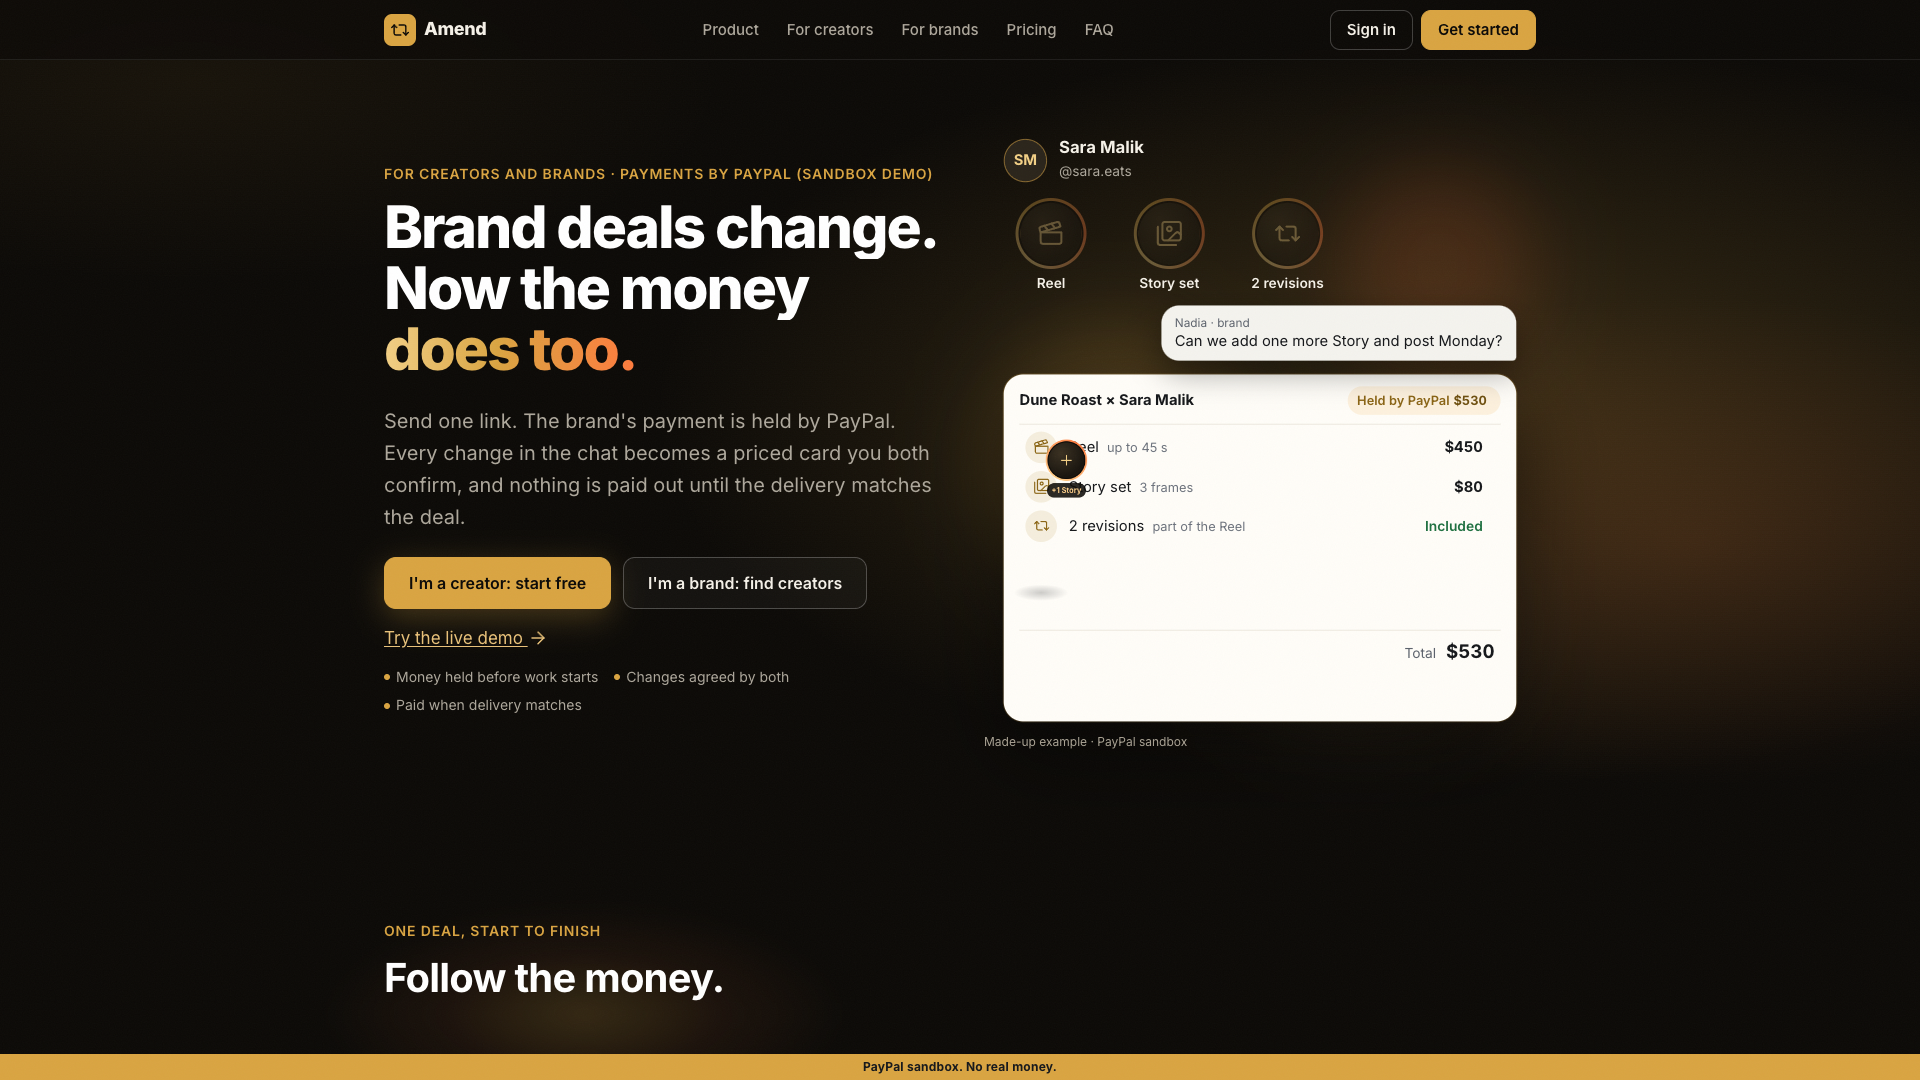
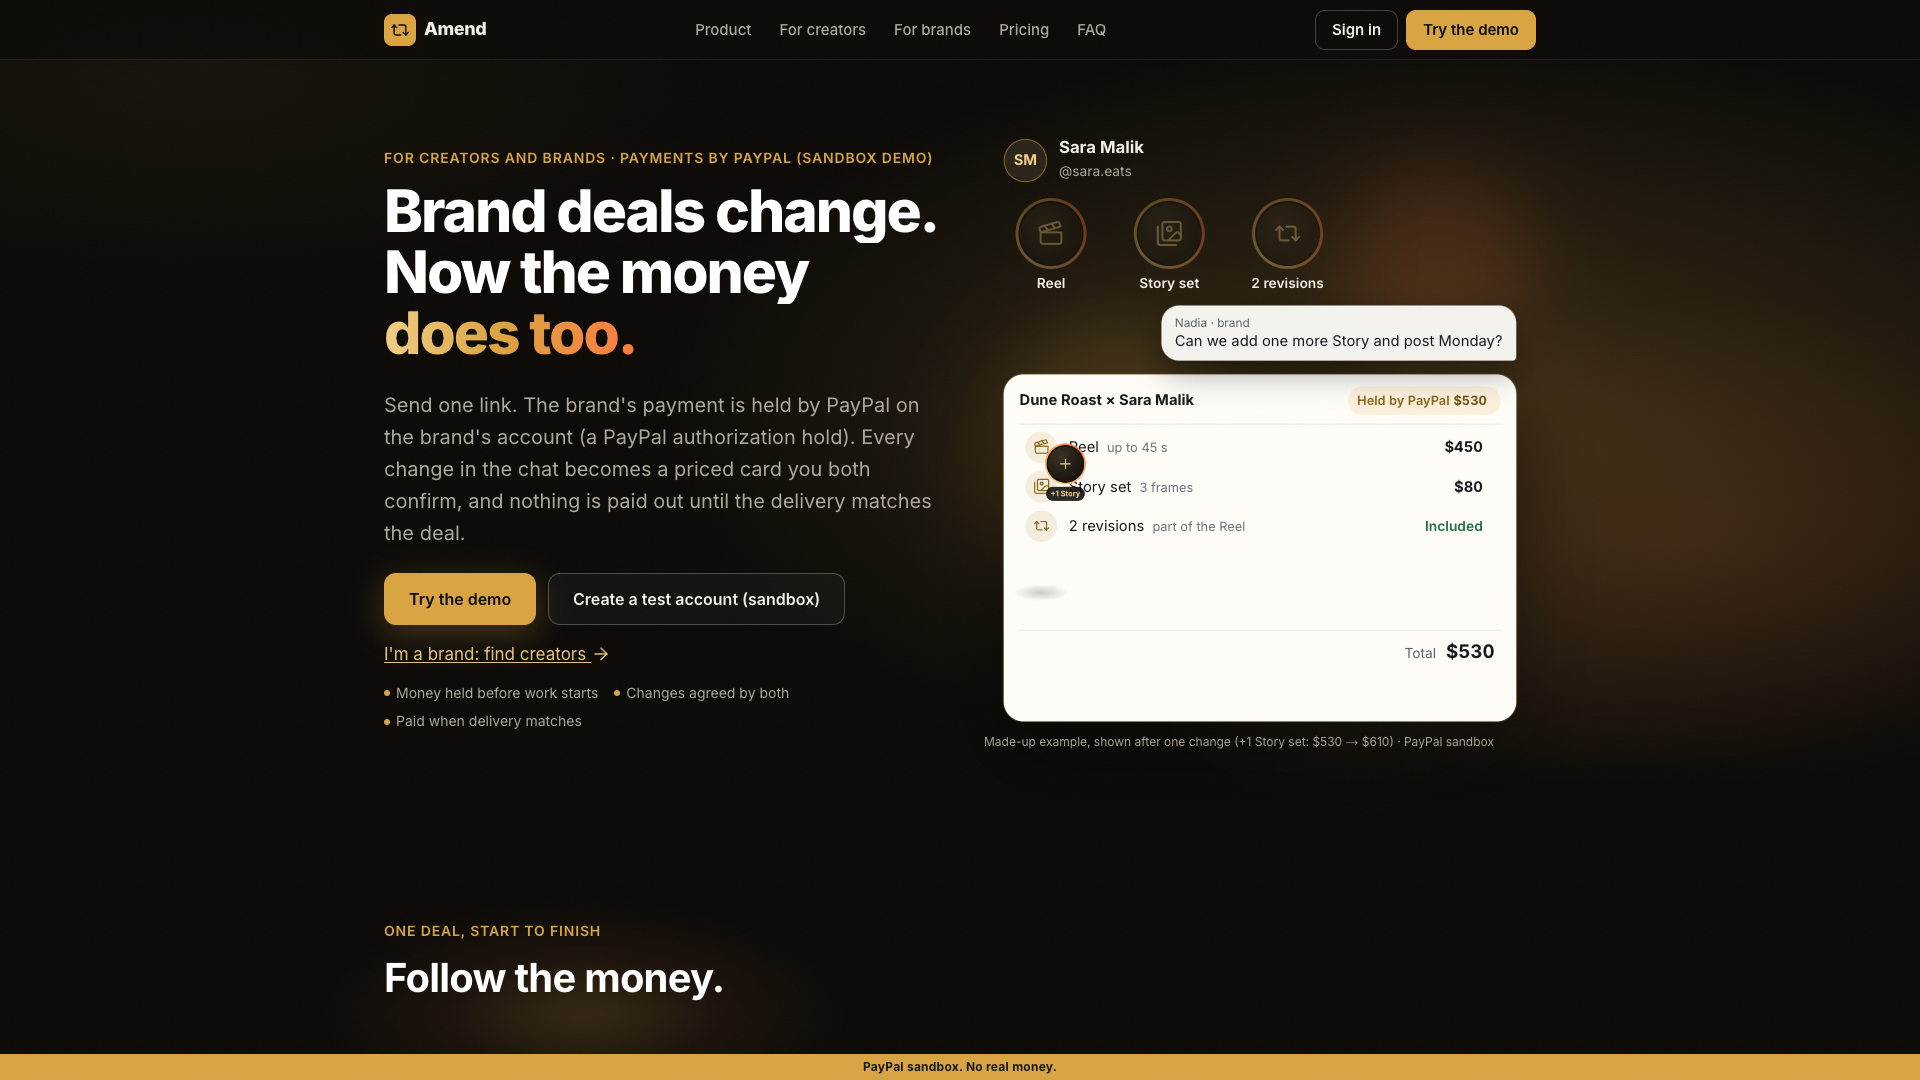
Live-page copy: honest post-check line, Try the demo / Create a test account (sandbox), hero note, peg line

diff --git a/web/index.html b/web/index.html
@@ -16,7 +16,7 @@
     <a href="/#how">Product</a><a href="/#creators">For creators</a><a href="/#brands">For brands</a><a href="/pricing">Pricing</a><a href="/faq">FAQ</a>
   </nav>
   <span class="auth-slot mk-only-desktop"></span>
-  <a class="btn small primary mk-only-mobile" href="/signup">Get started</a>
+  <a class="btn small primary mk-only-mobile" href="/try">Try the demo</a>
   <button class="iconbtn mk-only-mobile" id="mk-menu" aria-label="Menu"><i data-lucide="menu" aria-hidden="true"></i></button>
 </header>
 
@@ -30,10 +30,10 @@
         <h1 class="cine-h" aria-label="Brand deals change. Now the money does too."><span class="ln" aria-hidden="true"><span style="--i:0">Brand deals change.</span></span><span class="ln" aria-hidden="true"><span style="--i:1">Now the money</span></span><span class="ln" aria-hidden="true"><span class="gold" style="--i:2">does too.</span></span></h1>
         <p class="lead">Send one link. The brand's payment is held by PayPal on the brand's account (a PayPal authorization hold). Every change in the chat becomes a priced card you both confirm, and nothing is paid out until the delivery matches the deal.</p>
         <div class="cta-row">
-          <a class="btn primary lg magnetic" href="/signup?kind=creator">I'm a creator: start free</a>
-          <a class="btn lg magnetic" href="/creators">I'm a brand: find creators</a>
+          <a class="btn primary lg magnetic" href="/try">Try the demo</a>
+          <a class="btn lg magnetic" href="/signup?kind=creator">Create a test account (sandbox)</a>
         </div>
-        <p class="try-link"><a href="/try">Try the live demo <i data-lucide="arrow-right" aria-hidden="true"></i></a></p>
+        <p class="try-link"><a href="/creators">I'm a brand: find creators <i data-lucide="arrow-right" aria-hidden="true"></i></a></p>
         <ul class="proof-row" aria-label="How Amend protects both sides"><li>Money held before work starts</li><li>Changes agreed by both</li><li>Paid when delivery matches</li></ul>
       </div>
       <div class="scene" id="demo" role="img" aria-label="Animated example: Sara's prices fly into a deal card, $530 is held by PayPal, the brand asks for one more Story and post Monday, both confirm, and the held money becomes $610">
@@ -61,7 +61,7 @@
             </div>
           </div>
         </div></div>
-        <p class="sc-note">Made-up example · PayPal sandbox</p>
+        <p class="sc-note">Made-up example, shown after one change (+1 Story set: $530 → $610) · PayPal sandbox</p>
       </div>
     </div>
   </section>
@@ -79,7 +79,7 @@
         <li data-stage="2"><div class="n"><i data-lucide="git-branch" aria-hidden="true"></i> 3 · Change confirmed</div><h3>One more Story? +$80.</h3>
           <p>The chat becomes a priced change card. Both confirm, and PayPal now holds $610.</p></li>
         <li data-stage="3"><div class="n"><i data-lucide="scan-eye" aria-hidden="true"></i> 4 · Delivery matches</div><h3>Checked against the deal.</h3>
-          <p><!--PC1-->Amend checks the post details against the deal.<!--/PC1--> No match, no release.</p></li>
+          <p>Amend checks the post against the latest confirmed deal, and reads it from Instagram when the creator's account is connected. No match, no release.</p></li>
         <li data-stage="4"><div class="n"><i data-lucide="send" aria-hidden="true"></i> 5 · Paid out</div><h3>Collected and paid out.</h3>
           <p>The money reaches Sara, and every dollar in the ledger shows the words behind it.</p></li>
       </ol>
@@ -130,7 +130,7 @@
         <div><div class="shot"><img src="/static/img/how-change.png" alt="A change card priced from the creator's list" loading="lazy"></div>
           <h3>3 · Changes become cards</h3><p class="muted">"Can we add a Story?" becomes a priced card with the exact words. You both confirm.</p></div>
         <div><div class="shot"><img src="/static/img/how-delivery.png" alt="The delivery check comparing the post with the deal" loading="lazy"></div>
-          <h3>4 · Delivery matches, you get paid</h3><p class="muted"><!--PC1-->Amend checks the post details against the deal.<!--/PC1--> No match, no release.</p></div>
+          <h3>4 · Delivery matches, you get paid</h3><p class="muted">Amend checks the post against the latest confirmed deal, and reads it from Instagram when the creator's account is connected. No match, no release.</p></div>
       </div>
     </div>
   </section>
@@ -145,7 +145,7 @@
           <li><i data-lucide="link" aria-hidden="true"></i> One link instead of chasing emails and DMs</li>
           <li><i data-lucide="user-round" aria-hidden="true"></i> A public profile and media kit for your bio</li>
           <li><i data-lucide="wallet" aria-hidden="true"></i> Earnings, holdbacks and payouts in one place</li></ul>
-        <a class="btn primary" href="/signup?kind=creator" style="margin-top:16px">Start free</a></div>
+        <a class="btn primary" href="/signup?kind=creator" style="margin-top:16px">Create a test account (sandbox)</a></div>
       <div id="brands" class="card">
         <div class="eyebrow">For brands</div><h2 class="mk-h2" style="font-size:32px">Pay for what you actually get</h2>
         <ul class="checklist">
@@ -186,7 +186,7 @@
       <h2 class="mk-h2 leak">Free during the beta</h2>
       <div class="card" style="margin-top:24px">
         <div class="row between wrapx"><div><h3 style="margin:0">Beta</h3><p class="muted small" style="margin:0">Everything in Amend, for creators and brands</p></div><span class="statcard" style="padding:8px 16px;border:0"><span class="big" style="font-size:32px">$0</span></span></div>
-        <p class="small" style="margin-top:16px"><span class="pill held">Planned</span> After the beta: a small platform fee per completed deal, paid from the deal. The exact fee will be announced before it starts. PayPal's own fees apply as usual.</p>
+        <p class="small" style="margin-top:16px"><b>Planned:</b> after the beta, a small platform fee per completed deal, paid from the deal. The exact fee will be announced before it starts. PayPal's own fees apply as usual.</p>
       </div>
     </div>
   </section>
@@ -197,10 +197,10 @@
       <h2 class="mk-h2 leak">Questions</h2>
       <details><summary>Is my money safe? <i data-lucide="plus" aria-hidden="true"></i></summary><p>The brand's payment is a PayPal authorization hold on the brand's account, not money held by Amend. Money is collected only when both sides approve the release, and only after the delivery check passes. This is a sandbox demo: no real money moves.</p></details>
       <details><summary>What if the brand cancels? <i data-lucide="plus" aria-hidden="true"></i></summary><p>Amend proposes a fair split from the evidence (draft uploaded, approved, posted) and the creator's own cancellation terms, with the maths shown and a second-opinion check. Both approve; PayPal collects the creator's share and releases the rest.</p></details>
-      <details><summary>How is the post checked? <i data-lucide="plus" aria-hidden="true"></i></summary><p><!--PC2-->Amend checks the post details against the deal: the link, the date and the caption the creator gives, and what was delivered. Code decides; no money is released until they match.<!--/PC2--></p></details>
+      <details><summary>How is the post checked? <i data-lucide="plus" aria-hidden="true"></i></summary><p>Amend checks the post against the latest confirmed deal: the link, the date, the caption and what was delivered. When the creator's Instagram account is connected, Amend reads the post itself from Instagram (its type, when it went up and the caption); otherwise it uses the details the creator gives, and says so on the check. Stories can't be read for other accounts. Code decides; no money is released until they match.</p></details>
       <details><summary>What if the creator doesn't deliver? <i data-lucide="plus" aria-hidden="true"></i></summary><p>Nothing is released until the delivery matches the latest confirmed deal. Missing items become cards: remove them from the deal (and collect less) or wait for delivery.</p></details>
       <details><summary>Do brands need an account? <i data-lucide="plus" aria-hidden="true"></i></summary><p>No. The creator's link is enough to write a brief, pay with PayPal and confirm changes. Brands can create an account to keep a shortlist and see all their deals.</p></details>
-      <details><summary>Which countries and currencies? <i data-lucide="plus" aria-hidden="true"></i></summary><p>Payments are in USD (PayPal doesn't support AED); AED is shown beside every amount at a fixed rate. The demo is built for the UAE and the GCC.</p></details>
+      <details><summary>Which countries and currencies? <i data-lucide="plus" aria-hidden="true"></i></summary><p>Payments are in USD (PayPal doesn't support AED). AED shown at the official peg (3.6725 per USD, UAE Central Bank). PayPal settles in USD in this sandbox flow. The demo is built for the UAE and the GCC.</p></details>
       <details><summary>Is this live? <i data-lucide="plus" aria-hidden="true"></i></summary><p>It's a working demo on PayPal's sandbox. People, brands and numbers are made up and labelled "Demo".</p></details>
       <details><summary>How are creator metrics checked? <i data-lucide="plus" aria-hidden="true"></i></summary><p>Every number shows where it came from: self-reported, read from an insights screenshot (checked by the creator, not verified), verified, or demo, plus how old it is. Engagement and view rate are worked out by Amend, never typed.</p></details>
     </div>
@@ -209,7 +209,7 @@
   <section class="mk" style="padding-bottom:64px">
     <div class="band"><h2 class="mk-h2 leak">Send your first deal link in 2 minutes</h2>
       <p style="color:#C9CCD1">Set your prices, share your link, and let PayPal hold the money.</p>
-      <a class="btn primary lg" href="/signup?kind=creator">Start free</a></div>
+      <a class="btn primary lg" href="/try">Try the demo</a> <a class="btn lg" href="/signup?kind=creator">Create a test account (sandbox)</a></div>
   </section>
 </main>
 <footer class="footer"><div class="mk row between wrapx" style="gap:16px">

diff --git a/web/static/app.js b/web/static/app.js
@@ -160,7 +160,7 @@ async function fillAuthSlots() {
     s.innerHTML = w.signed_in
       ? (mk ? `<a class="btn primary small" href="${w.home}">${w.kind === "brand" ? "Go to my workspace" : "Go to my studio"}</a>`
       : `<a class="who" href="${w.home}" title="${w.kind === "brand" ? "Brand workspace" : "Your studio"}">${esc(w.name || "Account")}${w.company ? " · " + esc(w.company) : ""}</a>`)
-      : (mk ? `<a class="btn small ghost" href="/login?next=${next}">Sign in</a><a class="btn small primary" href="/signup">Get started</a>`
+      : (mk ? `<a class="btn small ghost" href="/login?next=${next}">Sign in</a><a class="btn small primary" href="/try">Try the demo</a>`
             : `<a class="btn small" href="/login?next=${next}">Sign in</a>`);
   });
 }

diff --git a/tests/browser/home_copy.py b/tests/browser/home_copy.py
@@ -1,0 +1,45 @@
+"""The rendered home page: no visible "---", markers or meta text; the copy matches what's live. 390 + 1440 →
+docs/screenshots/home/."""
+from __future__ import annotations
+
+import re
+import sys
+from pathlib import Path
+
+from playwright.sync_api import sync_playwright
+
+ROOT = Path(__file__).resolve().parents[2]
+BASE = sys.argv[1]
+OUT = ROOT / "docs" / "screenshots" / "home"
+OUT.mkdir(parents=True, exist_ok=True)
+problems, errs = [], []
+WANT = ["Try the demo", "Create a test account (sandbox)",
+        "Amend checks the post against the latest confirmed deal, and reads it from Instagram when the creator's account is connected.",
+        "shown after one change", "PayPal sandbox"]
+with sync_playwright() as p:
+    b = p.chromium.launch()
+    for w, h in ((1440, 900), (390, 844)):
+        pg = b.new_context(viewport={"width": w, "height": h}).new_page()
+        pg.on("pageerror", lambda e: errs.append(str(e)))
+        pg.goto(BASE + "/"); pg.wait_for_timeout(1500)
+        for d in pg.locator("details").all():  # open the FAQ so its text is visible too
+            try:
+                d.evaluate("e => e.open = true")
+            except Exception:
+                pass
+        t = pg.inner_text("body")
+        for bad in ("---", "<!--", "PC1", "PC2", "{{", "}}", "undefined", "null", "Start free", "Get started", "Planned After"):
+            if bad in t:
+                problems.append(f"{w}: visible {bad!r}")
+        for want in WANT + ["AED shown at the official peg (3.6725 per USD, UAE Central Bank). PayPal settles in USD in this sandbox flow.",
+                            "Planned: after the beta,"]:
+            if want not in t:
+                problems.append(f"{w}: missing {want[:50]!r}")
+        if re.search(r"\$\{|\$\d+\.\d{3}", t):
+            problems.append(f"{w}: template text visible")
+        if pg.evaluate("document.documentElement.scrollWidth") > w:
+            problems.append(f"{w}: sideways scroll")
+        pg.screenshot(path=str(OUT / f"home-{w}.png"))
+        pg.locator("#faq, section:has(h2:text('Questions'))").first.screenshot(path=str(OUT / f"faq-{w}.png"))
+    b.close()
+print("problems:", problems or "none"); print("JS errors:", errs[:5] or "none")

diff --git a/tests/test_igpost.py b/tests/test_igpost.py
@@ -162,9 +162,10 @@ def test_a_story_link_is_not_read(client, mocks, on, held):
     assert not g.called and w["post"]["result"]["ig"]["status"] == "story"
 
 
-def test_landing_copy_matches_what_is_live(client, monkeypatch):
+def test_landing_copy_is_honest_either_way(client, monkeypatch):
+    want = "Amend checks the post against the latest confirmed deal, and reads it from Instagram when the creator's account is connected."
     off = client.get("/").text
-    assert "checks the post details against the deal" in off and "reads the post from Instagram" not in off
+    assert want in off
     monkeypatch.setenv("IG_LOOKUP_ENABLED", "true")
     monkeypatch.setenv("META_IG_TOKEN", TOKEN)
     monkeypatch.setenv("META_IG_USER_ID", "IG-ME-1")
@@ -172,18 +173,7 @@ def test_landing_copy_matches_what_is_live(client, monkeypatch):
     get_settings.cache_clear()
     try:
         live = client.get("/faq").text
-        assert "Amend reads the post from Instagram and checks it against the latest confirmed deal" in live
-        assert "checks the post details against the deal" not in live and TOKEN not in live
+        assert want in live and "When the creator's Instagram account is connected, Amend reads the post itself" in live
+        assert TOKEN not in live
     finally:
         get_settings.cache_clear()
-
-
-def test_the_creator_sets_her_instagram_account_in_settings(client, mocks, on):
-    from .test_booking import login
-    mocks.get(GRAPH).mock(return_value=httpx.Response(200, json={"username": "clinicrobotest"}))
-    login(client)
-    s = client.put("/api/studio/settings", json={"ig_handle": "@ClinicRoboTest"}, headers=ORIGIN).json()
-    assert s["instagram"] == {"handle": "clinicrobotest", "on": True, "connected": True, "demo": False}
-    assert client.put("/api/studio/settings", json={"ig_handle": "not a handle!"}, headers=ORIGIN).status_code == 400
-    s = client.put("/api/studio/settings", json={"ig_handle": ""}, headers=ORIGIN).json()
-    assert s["instagram"]["handle"] is None

diff --git a/tests/test_design.py b/tests/test_design.py
@@ -78,7 +78,7 @@ def test_scene_numbers_match_the_price_list_story():
 
 
 def test_scene_fallbacks_and_text_first():
-    assert "Brand deals change." in INDEX and "does too." in INDEX and "I'm a creator: start free" in INDEX
+    assert "Brand deals change." in INDEX and "does too." in INDEX and "Try the demo" in INDEX and "Create a test account (sandbox)" in INDEX
     assert "js-anim" in INDEX and "prefers-reduced-motion: reduce" in INDEX and "saveData" in INDEX  # only animates without them
     assert "afterLoad(startHero)" in CINE_JS and "showFinal" in CINE_JS  # GSAP after load; final state if it can't load
     assert "visibilitychange" in CINE_JS and "IntersectionObserver" in CINE_JS  # paused when hidden or off-screen

diff --git a/amend/app.py b/amend/app.py
@@ -207,7 +207,7 @@ BRAND_TABS = {"inbox", "deals", "shortlist", "searches", "payments", "team", "se
 
 
 POST_CHECK_LIVE = {
-    "PC1": "Amend reads the post from Instagram and checks it against the latest confirmed deal.",
+    "PC1": "Amend checks the post against the latest confirmed deal, and reads it from Instagram when the creator's account is connected.",
     "PC2": "Amend reads the post from Instagram and checks it against the latest confirmed deal: its type, when it went "
            "up and the caption (#ad). Stories can't be read for other accounts, so they come from the creator's upload. "
            "If the post can't be read (a personal account, or Instagram is down), it checks the details the creator "

diff --git a/docs/progress.md b/docs/progress.md
@@ -790,3 +790,14 @@ question wasn't answered, so the recommended option was taken.
 - Final audit items were already in 28a931f.
 - **Tests: 828 passed, 3 skipped.** Browser: mandate + `map_shot.py` (390 + 1440): problems none.
 - **FEATURE FREEZE from here: only fixes from Alifiya's real run.**
+
+## Live-page copy fixes (10 Nov, freeze: copy only)
+- Step 4 and the FAQ "How is the post checked?": one honest sentence whether Instagram reading is on or off ("…and
+  reads it from Instagram when the creator's account is connected").
+- CTAs: "Try the demo" (/try) and "Create a test account (sandbox)" everywhere (hero, header, mobile, pricing, bottom);
+  the sandbox banner stays.
+- Hero card note: "Made-up example, shown after one change (+1 Story set: $530 → $610)", so a still frame doesn't
+  contradict the animation.
+- FAQ currencies: the official peg line. "Planned: after the beta, …".
+- Rendered home page checked in a browser (`tests/browser/home_copy.py`, 390 + 1440, FAQ opened): no "---", markers,
+  template text or old CTAs. **Tests: 827 passed, 3 skipped.**
